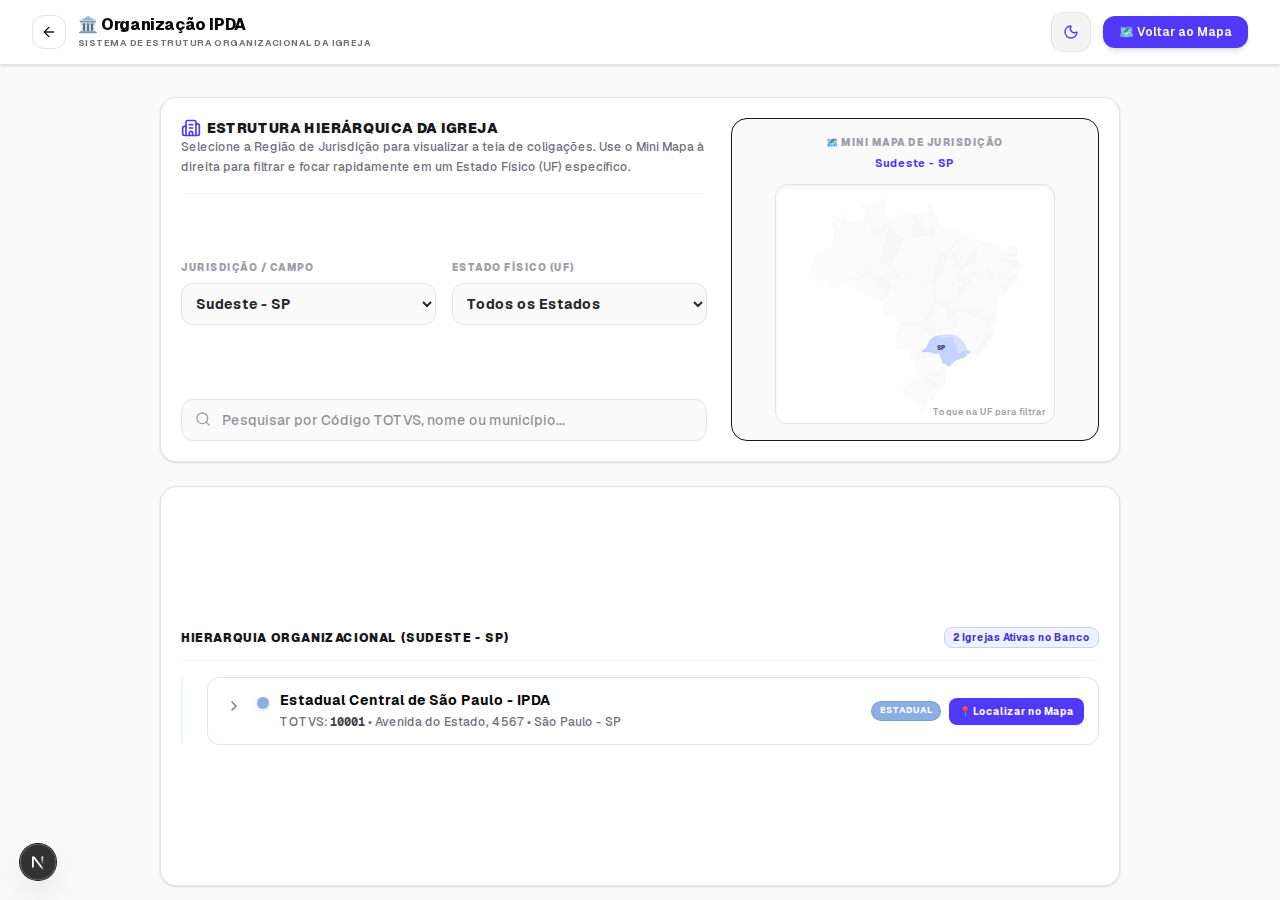
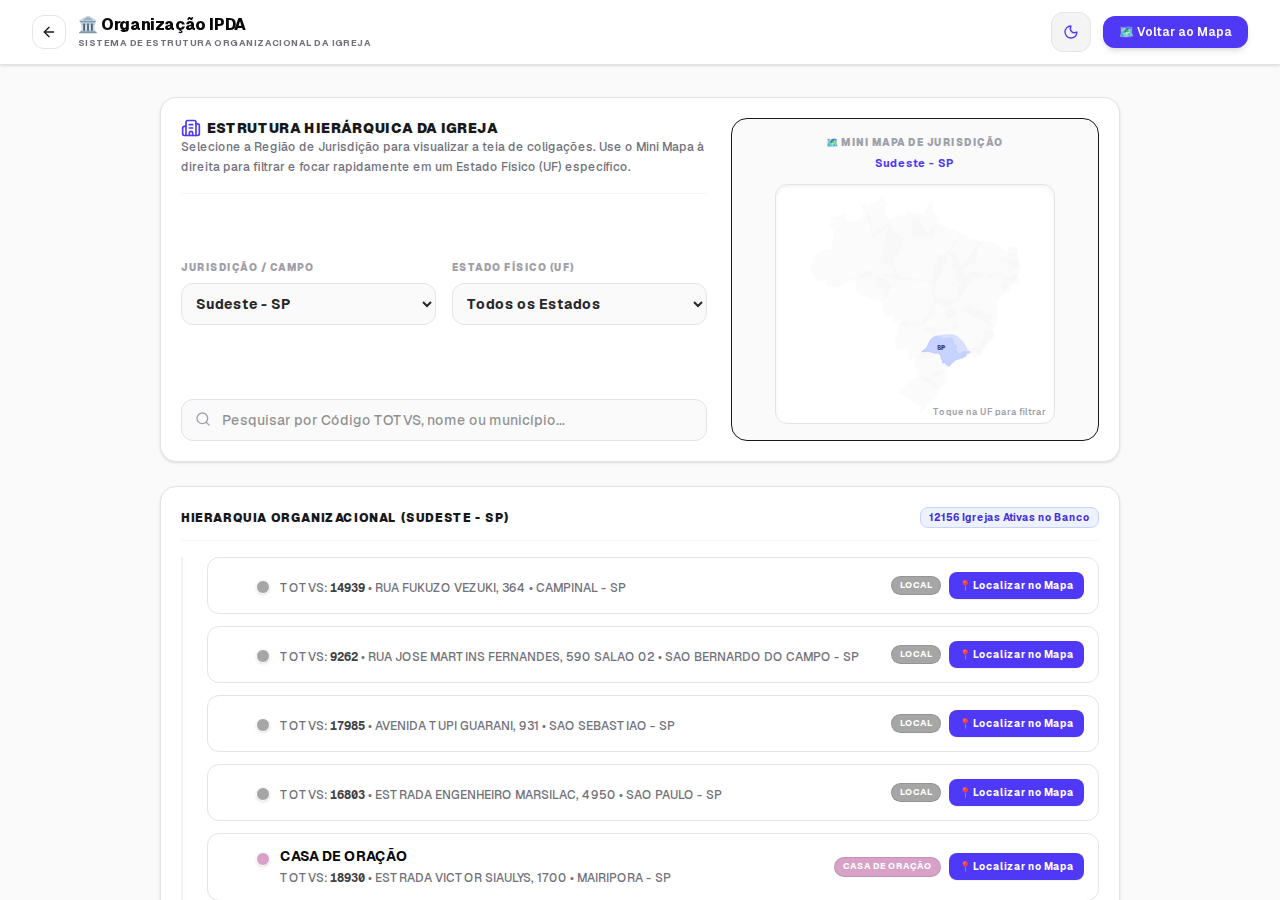
Att

diff --git a/src/scripts/import-backup-sql.ts b/src/scripts/import-backup-sql.ts
@@ -1,0 +1,131 @@
+import * as fs from 'fs';
+import * as path from 'path';
+import { Client } from 'pg';
+import * as dotenv from 'dotenv';
+
+// Load env variables
+dotenv.config({ path: '.env.local' });
+
+const databaseUrl = process.env.DATABASE_URL;
+
+if (!databaseUrl) {
+  console.error('Error: DATABASE_URL is not set in .env.local');
+  process.exit(1);
+}
+
+async function main() {
+  console.log('Connecting to Supabase...');
+  const client = new Client({
+    connectionString: databaseUrl,
+    ssl: {
+      rejectUnauthorized: false,
+    },
+  });
+
+  await client.connect();
+  console.log('Connected successfully!');
+
+  try {
+    // 1. Recreate table structure to match requirements exactly
+    console.log('Dropping existing table "igrejas" if any...');
+    await client.query('DROP TABLE IF EXISTS public.igrejas CASCADE;');
+
+    console.log('Creating table "igrejas" with requested schema...');
+    await client.query(`
+      CREATE TABLE public.igrejas (
+        id UUID PRIMARY KEY DEFAULT gen_random_uuid(),
+        codigo_totvs VARCHAR(100) UNIQUE NOT NULL,
+        desc_igreja VARCHAR(255) NOT NULL,
+        tipo_imovel VARCHAR(100),
+        endereco TEXT,
+        bairro VARCHAR(100),
+        municipio VARCHAR(100),
+        estado VARCHAR(50),
+        cep VARCHAR(20),
+        latitude DOUBLE PRECISION,
+        longitude DOUBLE PRECISION,
+        link_google_maps TEXT,
+        status VARCHAR(50) DEFAULT 'PENDENTE',
+        validado_por VARCHAR(100),
+        validado_em TIMESTAMP WITH TIME ZONE,
+        observacoes TEXT,
+        created_at TIMESTAMP WITH TIME ZONE DEFAULT CURRENT_TIMESTAMP,
+        updated_at TIMESTAMP WITH TIME ZONE DEFAULT CURRENT_TIMESTAMP,
+        usuario_validador VARCHAR(100),
+        codigo_totvs_pai VARCHAR(100),
+        porte VARCHAR(50)
+      );
+    `);
+    console.log('Table "igrejas" created successfully.');
+
+    // 2. Read the SQL file
+    const sqlFilePath = path.join(process.cwd(), 'igrejas_202608031504.sql');
+    console.log(`Reading SQL backup from ${sqlFilePath}...`);
+    const sqlContent = fs.readFileSync(sqlFilePath, 'utf8');
+
+    // Split SQL by "INSERT INTO public.igrejas"
+    const splitToken = 'INSERT INTO public.igrejas';
+    const parts = sqlContent.split(splitToken);
+
+    // The first part is everything before the first INSERT statement (should be empty or whitespace)
+    const statements: string[] = [];
+    for (let i = 1; i < parts.length; i++) {
+      const statement = (splitToken + parts[i]).trim();
+      if (statement) {
+        statements.push(statement);
+      }
+    }
+
+    console.log(`Found ${statements.length} INSERT blocks in the SQL file.`);
+
+    // 3. Execute INSERT blocks in batches
+    console.log('Starting mass data import into Supabase...');
+    const totalBlocks = statements.length;
+    let successCount = 0;
+
+    for (let i = 0; i < totalBlocks; i++) {
+      const stmt = statements[i];
+      try {
+        await client.query(stmt);
+        successCount++;
+        if (successCount % 100 === 0 || successCount === totalBlocks) {
+          console.log(`Progress: Imported ${successCount}/${totalBlocks} blocks...`);
+        }
+      } catch (err: any) {
+        console.error(`Error executing block ${i + 1}:`, err.message);
+        console.error(`Statement snippet: ${stmt.substring(0, 200)}...`);
+        throw err;
+      }
+    }
+
+    console.log('Import complete!');
+
+    // 4. Run post-import verification queries
+    console.log('\n--- VERIFICATION ---');
+    const countRes = await client.query('SELECT COUNT(*) FROM public.igrejas;');
+    const totalRecords = countRes.rows[0].count;
+    console.log(`Total churches imported: ${totalRecords}`);
+
+    const validatedCountRes = await client.query("SELECT COUNT(*) FROM public.igrejas WHERE status = 'VALIDADO';");
+    const validatedRecords = validatedCountRes.rows[0].count;
+    console.log(`Validated churches: ${validatedRecords}`);
+
+    const coordCountRes = await client.query("SELECT COUNT(*) FROM public.igrejas WHERE latitude IS NOT NULL AND longitude IS NOT NULL;");
+    const coordRecords = coordCountRes.rows[0].count;
+    console.log(`Churches with coordinates (non-null lat/lng): ${coordRecords}`);
+
+    // Fetch a sample record to confirm coordinate types and data integrity
+    const sampleRes = await client.query("SELECT codigo_totvs, desc_igreja, latitude, longitude, status FROM public.igrejas WHERE status = 'VALIDADO' LIMIT 3;");
+    console.log('\nSample Validated Records:');
+    console.log(JSON.stringify(sampleRes.rows, null, 2));
+
+  } catch (err) {
+    console.error('An error occurred during import:', err);
+    process.exit(1);
+  } finally {
+    await client.end();
+    console.log('Database connection closed.');
+  }
+}
+
+main();

diff --git a/src/lib/db.ts b/src/lib/db.ts
@@ -1,6 +1,7 @@
 import { Pool } from 'pg';
 
 export interface Igreja {
+  id?: string;
   codigo_totvs: string;
   desc_igreja: string;
   tipo_imovel: string;
@@ -17,6 +18,10 @@ export interface Igreja {
   codigo_totvs_pai?: string | null;
   porte?: string | null;
   updated_at?: string;
+  created_at?: string;
+  validado_por?: string | null;
+  validado_em?: string | null;
+  observacoes?: string | null;
 }
 
 // Check database URL in env
@@ -86,7 +91,8 @@ async function ensurePostgresTable() {
     try {
       await client.query(`
         CREATE TABLE IF NOT EXISTS igrejas (
-          codigo_totvs VARCHAR(100) PRIMARY KEY,
+          id UUID PRIMARY KEY DEFAULT gen_random_uuid(),
+          codigo_totvs VARCHAR(100) UNIQUE NOT NULL,
           desc_igreja VARCHAR(255) NOT NULL,
           tipo_imovel VARCHAR(100),
           endereco TEXT,
@@ -97,23 +103,26 @@ async function ensurePostgresTable() {
           link_google_maps TEXT,
           latitude DOUBLE PRECISION,
           longitude DOUBLE PRECISION,
-          status VARCHAR(20) DEFAULT 'PENDENTE',
+          status VARCHAR(50) DEFAULT 'PENDENTE',
+          validado_por VARCHAR(100),
+          validado_em TIMESTAMP,
           usuario_validador VARCHAR(100),
+          observacoes TEXT,
           codigo_totvs_pai VARCHAR(100),
           porte VARCHAR(50),
+          created_at TIMESTAMP DEFAULT CURRENT_TIMESTAMP,
           updated_at TIMESTAMP DEFAULT CURRENT_TIMESTAMP
         );
       `);
-      // Run alter table just in case the table exists but lacks columns
+      // Run alter table/checks just in case the table exists but lacks columns
       try {
-        await client.query(`ALTER TABLE igrejas ADD COLUMN IF NOT EXISTS codigo_totvs_pai VARCHAR(100);`);
+        await client.query(`ALTER TABLE igrejas ADD COLUMN IF NOT EXISTS id UUID DEFAULT gen_random_uuid();`);
+        await client.query(`ALTER TABLE igrejas ADD COLUMN IF NOT EXISTS validado_por VARCHAR(100);`);
+        await client.query(`ALTER TABLE igrejas ADD COLUMN IF NOT EXISTS validado_em TIMESTAMP;`);
+        await client.query(`ALTER TABLE igrejas ADD COLUMN IF NOT EXISTS observacoes TEXT;`);
+        await client.query(`ALTER TABLE igrejas ADD COLUMN IF NOT EXISTS created_at TIMESTAMP DEFAULT CURRENT_TIMESTAMP;`);
       } catch (alterErr) {
-        console.warn('Alter table column check failed (might be expected):', alterErr);
-      }
-      try {
-        await client.query(`ALTER TABLE igrejas ADD COLUMN IF NOT EXISTS porte VARCHAR(50);`);
-      } catch (alterErr) {
-        console.warn('Alter table porte column check failed (might be expected):', alterErr);
+        console.warn('Alter table columns check failed (might be expected):', alterErr);
       }
 
       // ---------------------------------------------------------------
@@ -164,6 +173,7 @@ export async function getIgrejas(filters?: { estado?: string; status?: string })
       query += ' ORDER BY desc_igreja ASC';
       const res = await pool.query(query, params);
       return res.rows.map((row) => ({
+        id: row.id,
         codigo_totvs: row.codigo_totvs,
         desc_igreja: row.desc_igreja,
         tipo_imovel: row.tipo_imovel,
@@ -180,6 +190,10 @@ export async function getIgrejas(filters?: { estado?: string; status?: string })
         codigo_totvs_pai: row.codigo_totvs_pai,
         porte: row.porte,
         updated_at: row.updated_at,
+        created_at: row.created_at,
+        validado_por: row.validado_por,
+        validado_em: row.validado_em,
+        observacoes: row.observacoes,
       }));
     } catch (err) {
       console.error('Postgres error in getIgrejas:', err);

diff --git a/src/components/GeneralMapComponent.tsx b/src/components/GeneralMapComponent.tsx
@@ -1526,7 +1526,7 @@ export default function GeneralMapComponent() {
               <h1 className="text-xs font-black text-zinc-950 dark:text-white tracking-tight leading-tight">
                 GEO-VALIG IPDA
               </h1>
-              <p className="text-[9px] text-zinc-500 dark:text-slate-400 font-semibold">MAPA DE VALIDAÇÃO</p>
+              <p className="text-[9px] text-zinc-500 dark:text-slate-400 font-semibold">GESTÃO DE DADOS</p>
             </div>
           </div>
           <span className="text-[10px] bg-indigo-50 dark:bg-slate-800 border border-indigo-150 dark:border-slate-700 text-indigo-700 dark:text-indigo-300 font-bold px-2 py-0.5 rounded-full">

diff --git a/verification/verify_organizacao.py b/verification/verify_organizacao.py
@@ -9,9 +9,9 @@ def main():
         page = context.new_page()
 
         try:
-            # Navigate to /organizacao on port 3001
-            print("Navegando para http://localhost:3001/organizacao...")
-            page.goto("http://localhost:3001/organizacao")
+            # Navigate to /organizacao on port 3000
+            print("Navegando para http://localhost:3000/organizacao...")
+            page.goto("http://localhost:3000/organizacao")
 
             # Wait for content to load
             print("Aguardando carregamento da página...")
